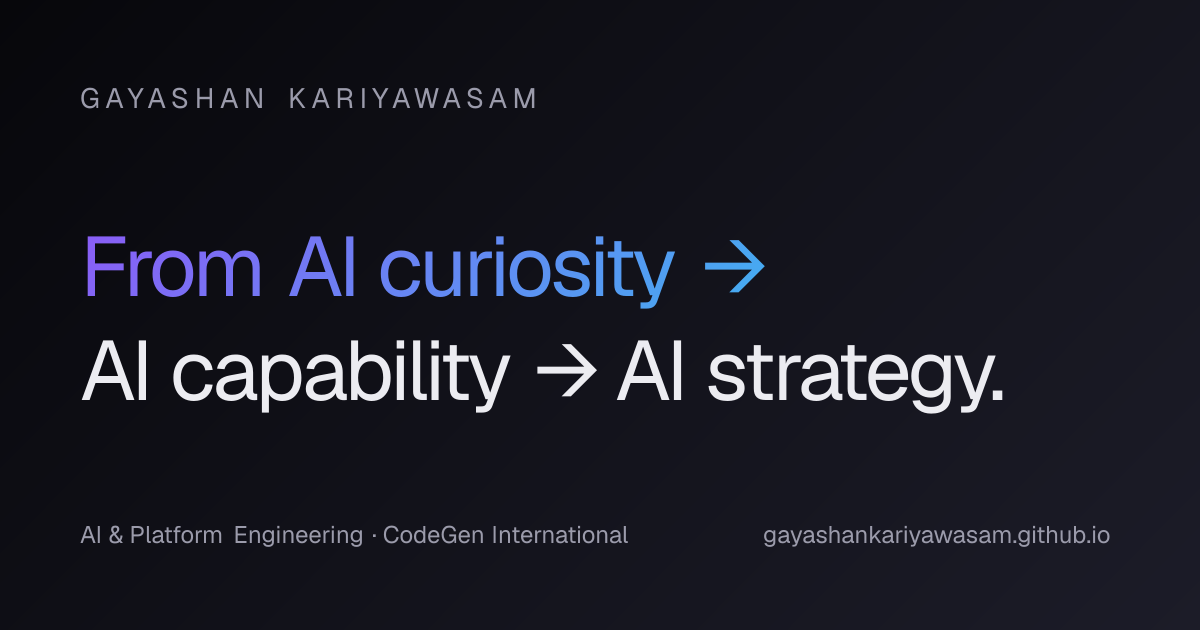
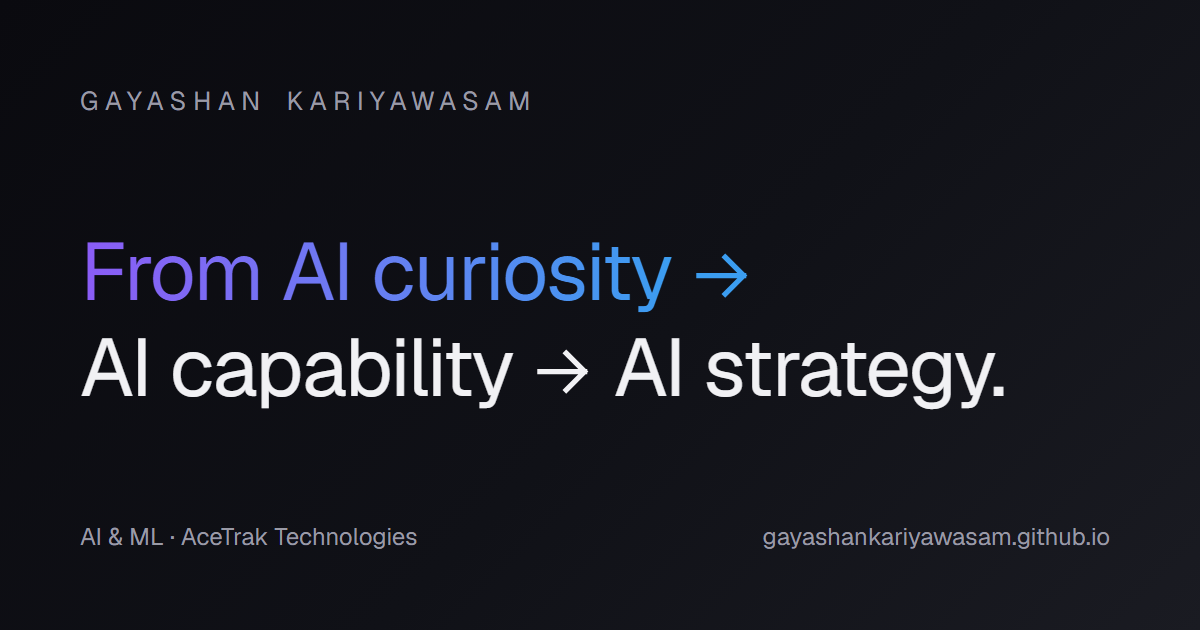
Content: move current role to AceTrak Technologies
Add Associate Lead - AI & ML at AceTrak Technologies (Sep 2026 - Present)
as the current role and close out the CodeGen lead role at Sep 2026.
Update hero, stats strip, about page, SEO metadata, JSON-LD, manifest
and the OG image to match.

diff --git a/src/data/experience.ts b/src/data/experience.ts
@@ -13,21 +13,33 @@ export type Experience = {
 
 export const experiences: Experience[] = [
   {
+    role: "Associate Lead - AI & ML",
+    company: "AceTrak Technologies",
+    companyUrl: "https://zone24x7.com/",
+    start: "Sep 2026",
+    end: "Present",
+    location: "Colombo, Sri Lanka",
+    summary:
+      "Leading AI & ML engineering at AceTrak Technologies, part of Zone24x7.",
+    highlights: [],
+    stack: [],
+  },
+  {
     role: "Associate Technical Team Lead — AI & Platform Engineering",
     company: "CodeGen International",
     companyUrl: "https://codegen.co.uk",
     start: "Jan 2024",
-    end: "Present",
+    end: "Sep 2026",
     location: "Colombo, Sri Lanka",
     summary:
-      "Lead the design, development and deployment of agentic AI systems and LLM-powered platforms at enterprise scale. Mentor a team of senior engineers and act as the primary technical contact for AI initiatives across multiple enterprise integrations.",
+      "Led the design, development and deployment of agentic AI systems and LLM-powered platforms at enterprise scale. Mentored a team of senior engineers and acted as the primary technical contact for AI initiatives across multiple enterprise integrations.",
     highlights: [
       "Led IDRP — an agentic conversational AI platform for self-service API testing, log tracing and integration troubleshooting. Reduced support escalations by 40%+",
       "Hands-on experience designing and building Model Context Protocol (MCP) servers in Python — including agentic RAG systems for technical documentation and context-providing servers for integration patterns",
       "Engineered an LLM-powered cancellation policy interpretation pipeline for a hospitality distribution integration with Redis-backed inference caching and prompt-engineering optimization — eliminated ~60% of redundant API calls and reduced p95 search latency by ~30%",
       "Drove enterprise-wide adoption of agentic dev tooling (Claude Code, Kiro, Antigravity, Codex, Qwen) and authored custom Claude Code commands",
       "Initiated and led the Tritium OPS Tool — deployment governance, audit trails, GitOps and Jira integration, and an admin dashboard",
-      "Mentor senior engineers across code review, system design, agentic development and stakeholder communication; primary technical contact for AI initiatives across multiple enterprise integrations",
+      "Mentored senior engineers across code review, system design, agentic development and stakeholder communication; primary technical contact for AI initiatives across multiple enterprise integrations",
     ],
     stack: [
       "Python",

diff --git a/src/app/about/page.tsx b/src/app/about/page.tsx
@@ -13,7 +13,7 @@ import {
 import { GithubIcon, LinkedinIcon, ScholarIcon } from "@/components/ui/icons";
 
 const aboutDescription =
-  "Gayashan Kariyawasam is an AI & Platform Engineering Tech Lead at CodeGen International in Colombo, Sri Lanka — IEEE-published, MSc Software Architecture (University of Moratuwa). He builds agentic AI, MCP servers and RAG pipelines.";
+  "Gayashan Kariyawasam is Associate Lead - AI & ML at AceTrak Technologies in Colombo, Sri Lanka — IEEE-published, MSc Software Architecture (University of Moratuwa). He builds agentic AI, MCP servers and RAG pipelines.";
 
 export const metadata: Metadata = {
   title: { absolute: `About Gayashan Kariyawasam — ${profile.shortRole}` },
@@ -99,8 +99,8 @@ export default function AboutPage() {
 
         <section className="mt-12 space-y-5 text-lg leading-relaxed text-text-muted">
           <p>
-            I&apos;m <span className="text-text">Gayashan Kariyawasam</span>, an{" "}
-            <span className="text-text">AI &amp; Platform Engineering Tech Lead</span>{" "}
+            I&apos;m <span className="text-text">Gayashan Kariyawasam</span>,{" "}
+            <span className="text-text">Associate Lead - AI &amp; ML</span>{" "}
             at{" "}
             <a
               href={profile.companyUrl}
@@ -115,11 +115,12 @@ export default function AboutPage() {
             conversational diagnostic platforms, custom{" "}
             <span className="text-text">Model Context Protocol (MCP)</span>{" "}
             servers, <span className="text-text">RAG pipelines</span> and
-            LLM-powered enterprise integrations across travel-tech and
-            hospitality.
+            LLM-powered enterprise integrations.
           </p>
           <p>
-            I lead a team of six senior engineers, hold an{" "}
+            Before AceTrak I spent nearly six years at CodeGen International,
+            most recently leading AI &amp; Platform Engineering and a team of
+            six senior engineers across travel-tech and hospitality. I hold an{" "}
             <a
               href={profile.socials.ieeeAuthor}
               target="_blank"

diff --git a/src/data/profile.ts b/src/data/profile.ts
@@ -2,19 +2,19 @@ export const profile = {
   name: "Gayashan Kariyawasam",
   shortName: "Gayashan",
   initials: "GK",
-  role: "Associate Technical Team Lead — AI & Platform Engineering",
-  shortRole: "Tech Lead — AI & Platform Engineering",
-  company: "CodeGen International",
-  companyUrl: "https://codegen.co.uk",
+  role: "Associate Lead - AI & ML",
+  shortRole: "Associate Lead - AI & ML",
+  company: "AceTrak Technologies",
+  companyUrl: "https://zone24x7.com/",
   location: "Colombo, Sri Lanka",
   timezone: "Asia/Colombo",
   yearsExperience: 6,
 
   tagline: "From AI curiosity → AI capability → AI strategy.",
   shortBio:
-    "Tech lead with ~6 years shipping production AI systems — agentic platforms, MCP servers, RAG pipelines and LLM-powered tooling at enterprise scale.",
+    "Associate Lead - AI & ML with ~6 years shipping production AI systems — agentic platforms, MCP servers, RAG pipelines and LLM-powered tooling at enterprise scale.",
   longBio:
-    "I lead AI & Platform Engineering at CodeGen International, where I design, build and ship agentic AI systems end-to-end. My current work centres on a conversational diagnostic platform (IDRP), custom Model Context Protocol servers, RAG pipelines, and LLM-powered enterprise integrations across travel-tech and hospitality. I mentor a team of six senior engineers, hold an IEEE publication in computer vision, and I'm finishing an MSc in Software Architecture at the University of Moratuwa.",
+    "I'm Associate Lead - AI & ML at AceTrak Technologies, part of Zone24x7. Before that I spent nearly six years at CodeGen International, where I led AI & Platform Engineering and designed, built and shipped agentic AI systems end-to-end — a conversational diagnostic platform (IDRP), custom Model Context Protocol servers, RAG pipelines, and LLM-powered enterprise integrations across travel-tech and hospitality — while mentoring a team of six senior engineers. I hold an IEEE publication in computer vision, and I'm finishing an MSc in Software Architecture at the University of Moratuwa.",
 
   currentlyExploring: [
     "Model Context Protocol (MCP) servers",

diff --git a/src/components/cinema/TimelineCinema.tsx b/src/components/cinema/TimelineCinema.tsx
@@ -62,7 +62,7 @@ export function TimelineCinema() {
             className="display mb-20 text-text"
             style={{ fontSize: "clamp(2.6rem, 7vw, 6rem)" }}
           >
-            Six years, four <span className="text-gradient">acts</span>
+            Six years, five <span className="text-gradient">acts</span>
           </h2>
         </Reveal>
 
@@ -120,21 +120,23 @@ export function TimelineCinema() {
                     <p className="mt-4 text-sm leading-relaxed text-text-muted">
                       {e.summary}
                     </p>
-                    <ul
-                      className={
-                        "mt-4 space-y-2 text-sm text-text-muted/90 " +
-                        (left ? "sm:[direction:rtl]" : "")
-                      }
-                    >
-                      {e.highlights.slice(0, 3).map((h) => (
-                        <li key={h} className="[direction:ltr]">
-                          <span className="mr-2 text-accent-2" aria-hidden>
-                            ◆
-                          </span>
-                          {h}
-                        </li>
-                      ))}
-                    </ul>
+                    {e.highlights.length > 0 && (
+                      <ul
+                        className={
+                          "mt-4 space-y-2 text-sm text-text-muted/90 " +
+                          (left ? "sm:[direction:rtl]" : "")
+                        }
+                      >
+                        {e.highlights.slice(0, 3).map((h) => (
+                          <li key={h} className="[direction:ltr]">
+                            <span className="mr-2 text-accent-2" aria-hidden>
+                              ◆
+                            </span>
+                            {h}
+                          </li>
+                        ))}
+                      </ul>
+                    )}
                   </Reveal>
                 </li>
               );

diff --git a/src/app/layout.tsx b/src/app/layout.tsx
@@ -38,20 +38,22 @@ const instrumentSerif = Instrument_Serif({
 });
 
 const description =
-  "AI & Platform Engineering Tech Lead at CodeGen International. IEEE-published, MSc Software Architecture. Building agentic AI, MCP servers, RAG pipelines.";
+  "Associate Lead - AI & ML at AceTrak Technologies. IEEE-published, MSc Software Architecture. Building agentic AI, MCP servers, RAG pipelines.";
 
 export const metadata: Metadata = {
   metadataBase: new URL(profile.siteUrl),
   title: {
-    default: `${profile.name} — AI & Platform Engineering Tech Lead`,
+    default: `${profile.name} — ${profile.shortRole}`,
     template: `%s · ${profile.name}`,
   },
   description,
   keywords: [
     "Gayashan Kariyawasam",
     "AI Engineer",
-    "Technical Team Lead",
+    "Associate Lead - AI & ML",
+    "AceTrak Technologies",
     "CodeGen International",
+    "Machine Learning",
     "Agentic AI",
     "Generative AI",
     "MCP Servers",
@@ -80,7 +82,7 @@ export const metadata: Metadata = {
   openGraph: {
     type: "profile",
     url: profile.siteUrl,
-    title: `${profile.name} — AI & Platform Engineering Tech Lead`,
+    title: `${profile.name} — ${profile.shortRole}`,
     description,
     siteName: profile.name,
     locale: "en_US",
@@ -91,13 +93,13 @@ export const metadata: Metadata = {
         url: "/og.png",
         width: 1200,
         height: 630,
-        alt: `${profile.name} — AI & Platform Engineering Tech Lead`,
+        alt: `${profile.name} — ${profile.shortRole}`,
       },
     ],
   },
   twitter: {
     card: "summary_large_image",
-    title: `${profile.name} — AI & Platform Engineering Tech Lead`,
+    title: `${profile.name} — ${profile.shortRole}`,
     description,
     images: ["/og.png"],
   },

diff --git a/src/lib/seo.ts b/src/lib/seo.ts
@@ -21,11 +21,16 @@ export function personJsonLd() {
     description: profile.shortBio,
     // Separates this Gayashan Kariyawasam from others sharing the surname.
     disambiguatingDescription:
-      "AI & Platform Engineering Tech Lead at CodeGen International in Colombo, Sri Lanka — IEEE-published computer-vision researcher building agentic AI, MCP servers and RAG pipelines.",
+      "Associate Lead - AI & ML at AceTrak Technologies in Colombo, Sri Lanka — IEEE-published computer-vision researcher building agentic AI, MCP servers and RAG pipelines.",
+    // companyUrl is the parent's site — AceTrak Technologies is part of Zone24x7.
     worksFor: {
       "@type": "Organization",
       name: profile.company,
-      url: profile.companyUrl,
+      parentOrganization: {
+        "@type": "Organization",
+        name: "Zone24x7",
+        url: profile.companyUrl,
+      },
     },
     nationality: { "@type": "Country", name: "Sri Lanka" },
     homeLocation: {

diff --git a/src/components/cinema/StatsStrip.tsx b/src/components/cinema/StatsStrip.tsx
@@ -18,7 +18,7 @@ type Stat = {
 
 const stats: Stat[] = [
   { value: 6, suffix: "+", label: "Years shipping production AI & platform systems" },
-  { text: "Lead", label: "AI & Platform Engineering @ CodeGen International" },
+  { text: "AI & ML", label: "Associate Lead @ AceTrak Technologies" },
   { value: 40, suffix: "%+", prefix: "−", label: "Support escalations, via the IDRP agentic platform", wide: true },
   { value: 60, suffix: "%", prefix: "−", label: "Redundant API calls in the LLM cancellation-policy pipeline" },
   { value: 30, suffix: "%", prefix: "−", label: "p95 search latency after inference caching" },

diff --git a/src/components/footer/KonamiTerminal.tsx b/src/components/footer/KonamiTerminal.tsx
@@ -49,7 +49,7 @@ export function KonamiTerminal() {
         break;
       case "about":
         out =
-          "Gayashan Kariyawasam — Tech Lead & AI Engineer at Codegen International. Based in Colombo, Sri Lanka. IEEE-published researcher.";
+          "Gayashan Kariyawasam — Associate Lead - AI & ML at AceTrak Technologies. Based in Colombo, Sri Lanka. IEEE-published researcher.";
         break;
       case "stack":
         out =

diff --git a/src/components/cinema/CinematicHero.tsx b/src/components/cinema/CinematicHero.tsx
@@ -294,7 +294,7 @@ export function CinematicHero() {
             className="mt-6 max-w-xl text-balance text-sm text-text-muted sm:text-lg"
             style={{ opacity: reduced ? 1 : undefined }}
           >
-            AI &amp; Platform Engineering Lead building{" "}
+            Associate Lead - AI &amp; ML, building{" "}
             <span className="text-text">production agentic systems</span>.
           </p>
           <p

diff --git a/README.md b/README.md
@@ -1,6 +1,6 @@
 # gayashankariyawasam.github.io
 
-Personal portfolio for **Gayashan Kariyawasam** — Tech Lead & AI Engineer at Codegen International.
+Personal portfolio for **Gayashan Kariyawasam** — Associate Lead - AI & ML at AceTrak Technologies.
 
 Live at <https://gayashankariyawasam.github.io>.
 
